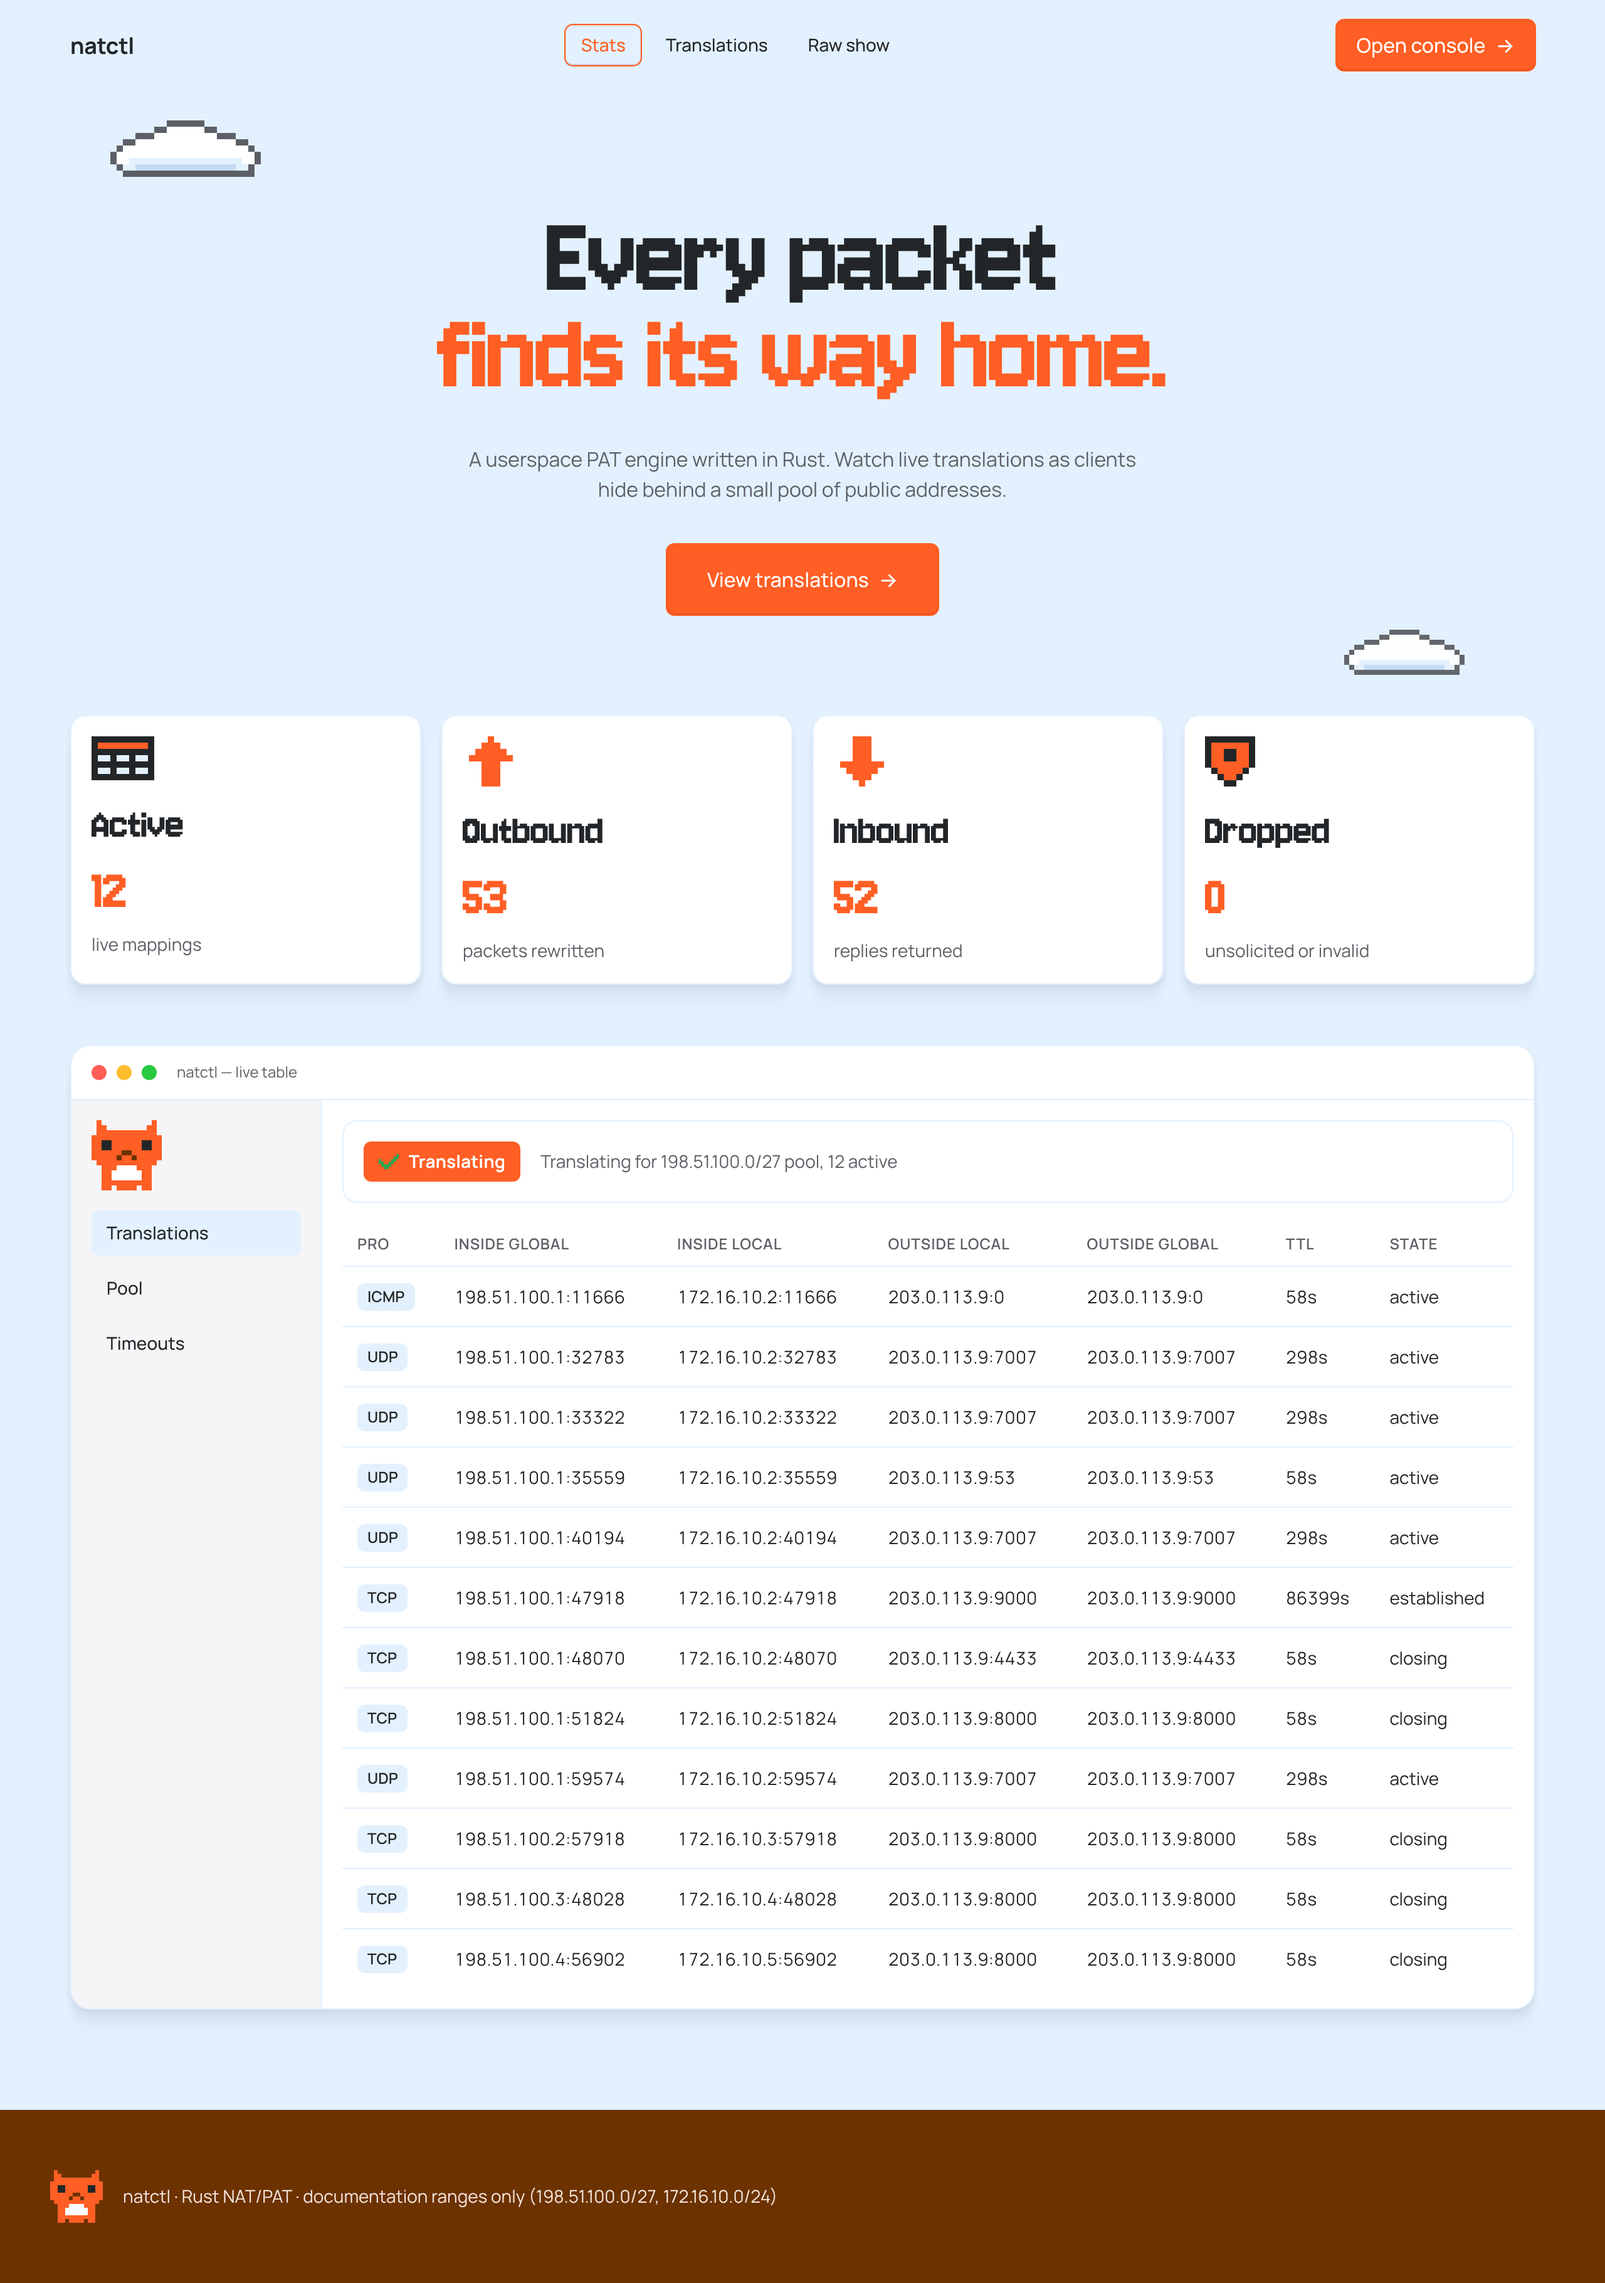
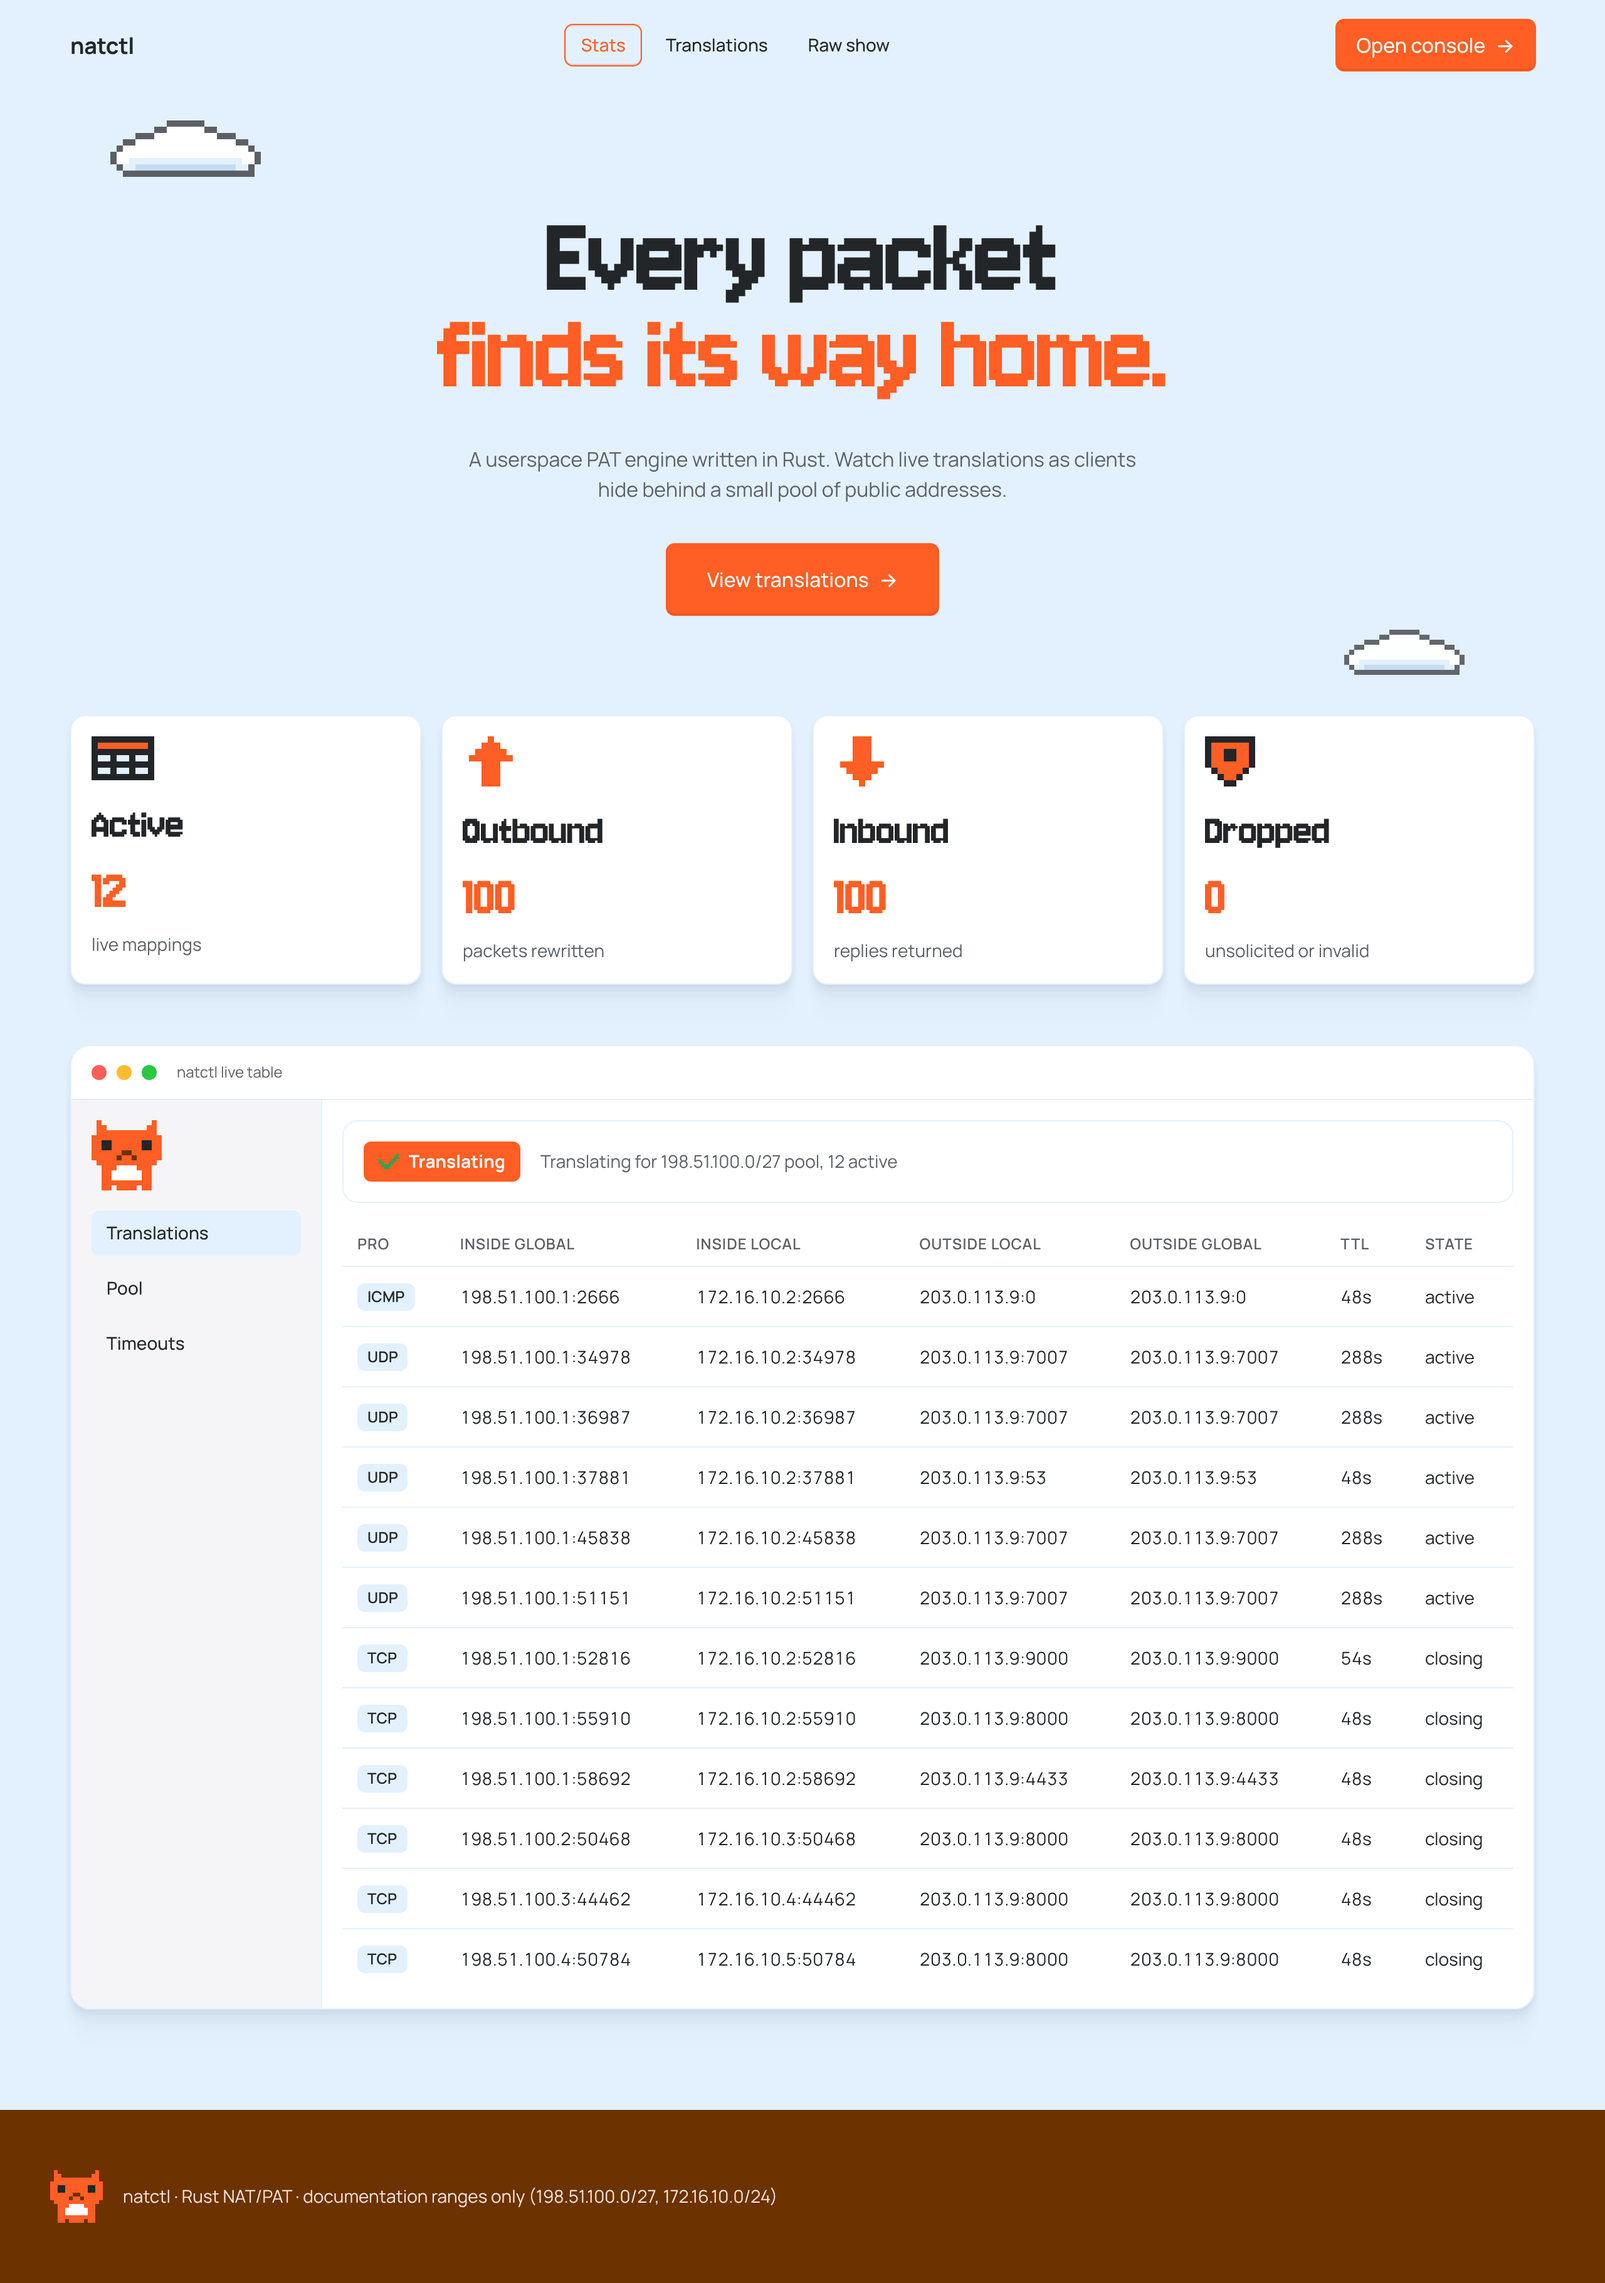
Tidied the doc comments and README after the audit and retook the screenshots

diff --git a/dashboard/index.html b/dashboard/index.html
@@ -34,7 +34,7 @@
     </section>
 
     <section id="console" class="window" aria-label="Live console">
-      <div class="chrome"><i class="dot r"></i><i class="dot y"></i><i class="dot g"></i><span>natctl &mdash; live table</span></div>
+      <div class="chrome"><i class="dot r"></i><i class="dot y"></i><i class="dot g"></i><span>natctl live table</span></div>
       <div class="body">
         <aside>
           <span class="sprite" data-sprite="cat" data-scale="4"></span>

diff --git a/crates/natctl/src/cli.rs b/crates/natctl/src/cli.rs
@@ -13,9 +13,9 @@ pub struct Cli {
 
 #[derive(Subcommand)]
 pub enum Cmd {
-    /// Run the translator on two TUN devices
+    #[command(about = "Run the translator on two TUN devices")]
     Run(Box<RunArgs>),
-    /// Print the translation table like `show ip nat translations`
+    #[command(about = "Print the live translation table")]
     Show(ShowArgs),
 }
 
@@ -29,8 +29,7 @@ pub struct ShowArgs {
 pub struct RunArgs {
     #[arg(long, default_value = "198.51.100.0/27")]
     pub pool: Cidr,
-    /// First match wins, e.g. "deny 172.16.0.0/16 172.16.0.0/16"
-    #[arg(long = "acl")]
+    #[arg(long = "acl", help = "Rule such as \"deny 172.16.0.0/16 172.16.0.0/16\", first match wins")]
     pub acl: Vec<Rule>,
     #[arg(long, default_value = "in0")]
     pub in_dev: String,
@@ -40,16 +39,13 @@ pub struct RunArgs {
     pub out_dev: String,
     #[arg(long, default_value = "10.255.1.1")]
     pub out_addr: Ipv4Addr,
-    /// Clamp the TCP MSS on SYN packets to this ceiling
-    #[arg(long)]
+    #[arg(long, help = "Clamp the TCP MSS on SYN packets to this ceiling")]
     pub mss: Option<u16>,
     #[arg(long, default_value = "127.0.0.1:8080")]
     pub admin: SocketAddr,
-    /// Push table deltas to a standby at this address
-    #[arg(long)]
+    #[arg(long, help = "Push table deltas to a standby at this address")]
     pub sync_peer: Option<SocketAddr>,
-    /// Receive table deltas from the active on this address
-    #[arg(long)]
+    #[arg(long, help = "Receive table deltas from the active at this address")]
     pub sync_listen: Option<SocketAddr>,
     #[arg(long, default_value_t = 86400)]
     pub tcp_timeout: u64,

diff --git a/crates/nat-core/src/nat.rs b/crates/nat-core/src/nat.rs
@@ -121,7 +121,9 @@ impl<C: Clock> Nat<C> {
         let m = self.refresh(id, Dir::Out, flags)?;
         ip.set_addr(Side::Src, *m.global.ip());
         ip.set_port(Side::Src, m.global.port());
-        self.cfg.mss.map(|max| ip.clamp_mss(max));
+        if let Some(max) = self.cfg.mss {
+            ip.clamp_mss(max);
+        }
         self.stats.outbound += 1;
         Ok(Verdict::Translated)
     }
@@ -140,7 +142,9 @@ impl<C: Clock> Nat<C> {
         };
         ip.set_addr(Side::Dst, *m.local.ip());
         ip.set_port(Side::Dst, m.local.port());
-        self.cfg.mss.map(|max| ip.clamp_mss(max));
+        if let Some(max) = self.cfg.mss {
+            ip.clamp_mss(max);
+        }
         self.stats.inbound += 1;
         Ok(Verdict::Translated)
     }

diff --git a/crates/nat-core/src/lib.rs b/crates/nat-core/src/lib.rs
@@ -1,4 +1,4 @@
-//! Pure stateful NAT: forward and reverse maps, PAT allocation, ACL and TCP state tracking.
+// Gathered the pure NAT state machine: maps, PAT allocation, ACL and TCP state tracking.
 
 pub mod acl;
 pub mod cidr;

diff --git a/crates/dnsfwd/src/lib.rs b/crates/dnsfwd/src/lib.rs
@@ -1,4 +1,4 @@
-//! UDP DNS forwarder that answers repeat questions from a TTL cache.
+// Gathered a forwarder that answered repeat questions from a TTL cache.
 
 use std::collections::HashMap;
 use std::net::SocketAddr;

diff --git a/crates/packet/src/lib.rs b/crates/packet/src/lib.rs
@@ -1,4 +1,4 @@
-//! Hand-written packet parsing and RFC 1624 incremental checksum updates.
+// Gathered the hand-written parsers and the RFC 1624 checksum patching.
 
 pub mod build;
 pub mod checksum;

diff --git a/crates/nat-sync/src/lib.rs b/crates/nat-sync/src/lib.rs
@@ -1,4 +1,4 @@
-//! Active/standby replication of NAT mappings over UDP.
+// Gathered the active and standby replication of mappings over UDP.
 
 pub mod codec;
 

diff --git a/README.md b/README.md
@@ -1,4 +1,4 @@
-# pat-rs
+# Networth
 
 [![ci](https://github.com/patilrajvardhan27/Networth/actions/workflows/ci.yml/badge.svg)](https://github.com/patilrajvardhan27/Networth/actions/workflows/ci.yml)
 
@@ -7,8 +7,6 @@ A stateful NAT/PAT router written in Rust, running in userspace over Linux TUN d
 All addresses are RFC 5737 documentation ranges (`198.51.100.0/27` pool, `172.16.10.0/24` inside, `203.0.113.0/24` outside).
 
 ![natctl console](docs/screenshots/console.png)
-
-**Keywords:** Rust, NAT, PAT, NAPT, SNAT, TUN/TAP, tokio, RFC 1624, RFC 4787, zero-dependency packet parser, property-based testing, network namespaces, active/standby replication, rustls, DNS forwarder, Docker, GitHub Actions, criterion.
 
 ## Layout
 
@@ -28,14 +26,14 @@ fuzz/         cargo-fuzz target for the parser with a seed corpus
 
 ## Lab feature to module
 
-| Lab feature | Module | Behavior |
+| Behavior | Module | Detail |
 |---|---|---|
-| `ip nat inside source list ... pool ... overload` | `nat-core::pat` | Keep the source port when free, otherwise take the next free one in the same port block; each inside host sticks to one pool address |
-| `deny` exemption ahead of `permit` | `nat-core::acl` | First-match ACL evaluated before translation, no match means no translation |
-| Flows survive CE failover | `nat-sync` | Standby applies replicated deltas; kill the active and the stream completes |
-| `ip tcp adjust-mss` | `packet::mss` | Clamp on SYN with an incremental checksum update |
-| `reflect` / `evaluate` | `nat-core::reflect` | Outside hosts cannot initiate or revive a TCP flow |
-| `show ip nat translations` | `natctl show` | Pro, Inside global, Inside local, Outside local, Outside global |
+| Pool-based port address translation with overload | `nat-core::pat` | Keep the source port when free, otherwise take the next free one in the same port block; each inside host sticks to one pool address |
+| Exempting inside-to-inside traffic from translation | `nat-core::acl` | First-match ACL evaluated before translation, no match means no translation |
+| Established flows surviving a router failover | `nat-sync` | Standby applies replicated deltas; kill the active and the stream completes |
+| TCP MSS clamping | `packet::mss` | Clamp on SYN with an incremental checksum update |
+| Stateful inbound filtering | `nat-core::reflect` | Outside hosts cannot initiate or revive a TCP flow |
+| Listing the translation table | `natctl show` | Protocol, inside global, inside local, outside local, outside global |
 
 ## Architecture
 
@@ -69,11 +67,11 @@ sudo target/debug/natctl run --pool 198.51.100.0/27 \
 target/debug/natctl show
 ```
 
-Docker:
+Docker (the console listens on the container address and is published on the host loopback only):
 
 ```bash
 docker build -t natctl .
-docker run --cap-add=NET_ADMIN --device /dev/net/tun -p 8080:8080 natctl run --admin 0.0.0.0:8080
+docker run --cap-add=NET_ADMIN --device /dev/net/tun -p 127.0.0.1:8080:8080 natctl run --admin 0.0.0.0:8080
 ```
 
 ![pool view](docs/screenshots/pool.png)
